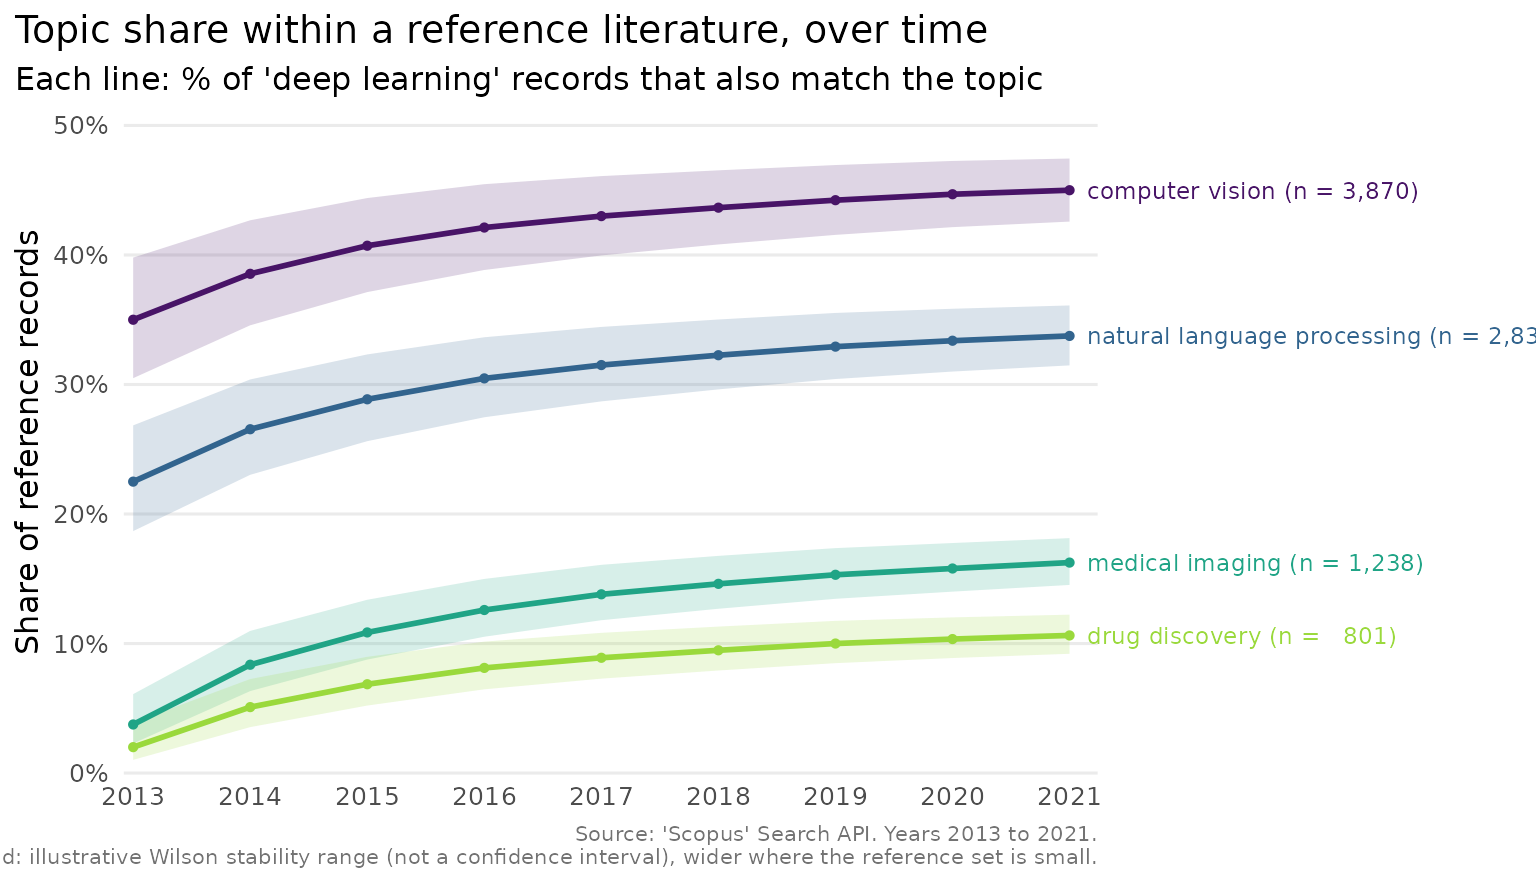
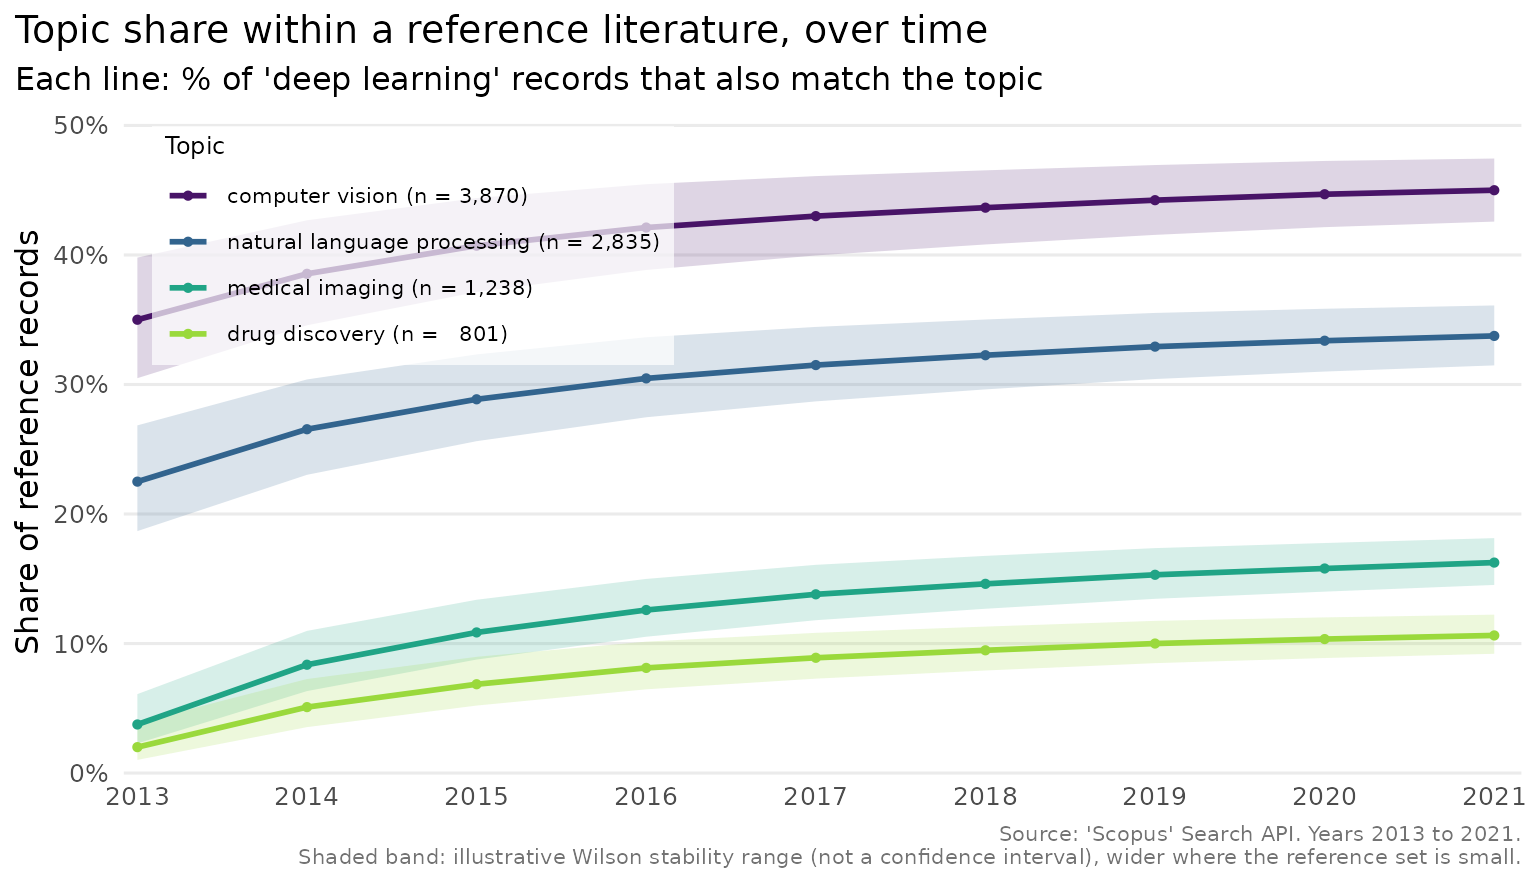
Deploying to gh-pages from @ pablobernabeu/scopusflow@1c958efbfbfdf7ba396225f3495b69d7d9747203 🚀

diff --git a/articles/comparing-topics.html b/articles/comparing-topics.html
@@ -636,16 +636,19 @@ recorded as <code>NA</code> rather than as a misleading zero.</p>
 <h2 id="a-first-plot">A first plot<a class="anchor" aria-label="anchor" href="#a-first-plot"></a>
 </h2>
 <div class="sourceCode" id="cb4"><pre class="downlit sourceCode r">
-<code class="sourceCode R"><span><span class="fu"><a href="../reference/plot_scopus_comparison.html">plot_scopus_comparison</a></span><span class="op">(</span><span class="va">cmp</span><span class="op">)</span></span></code></pre></div>
-<p><img src="comparing-topics_files/figure-html/unnamed-chunk-4-1.png" class="r-plt" alt="Four application areas' share of the deep-learning literature from 2013 to 2021, with shaded uncertainty bands" width="768"></p>
-<p>The chart uses whole-number year breaks, a colour-blind-safe palette
-and, because there are only a few topics, labels the lines directly so
-the reader need not match colours to a legend. Each label carries the
-topic’s total record count. The shaded band around each line is a Wilson
-stability range: it is wide in the early years, when the reference set
-is small and the share would move easily, and narrows as the literature
-grows. Because ‘Scopus’ returns exact counts rather than a sample, the
-band is illustrative rather than a confidence interval, a point the
+<code class="sourceCode R"><span><span class="fu"><a href="../reference/plot_scopus_comparison.html">plot_scopus_comparison</a></span><span class="op">(</span><span class="va">cmp</span>, legend_inside <span class="op">=</span> <span class="cn">TRUE</span><span class="op">)</span></span></code></pre></div>
+<p><img src="comparing-topics_files/figure-html/unnamed-chunk-4-1.png" class="r-plt" alt="Four application areas' share of the deep-learning literature from 2013 to 2021, with shaded uncertainty bands and an in-panel legend" width="768"></p>
+<p>Here <code>legend_inside = TRUE</code> places the topic key inside
+the panel, in whichever corner has the most free space, rather than
+labelling each line at its end. Left at its default the chart uses
+whole-number year breaks, a colour-blind-safe palette and, because there
+are only a few topics, labels the lines directly so the reader need not
+match colours to a legend. Each label carries the topic’s total record
+count. The shaded band around each line is a Wilson stability range: it
+is wide in the early years, when the reference set is small and the
+share would move easily, and narrows as the literature grows. Because
+‘Scopus’ returns exact counts rather than a sample, the band is
+illustrative rather than a confidence interval, a point the
 <code><a href="../reference/plot_scopus_comparison.html">plot_scopus_comparison()</a></code> help page sets out.</p>
 </div>
 <div class="section level2">

diff --git a/reference/plot_scopus_comparison.html b/reference/plot_scopus_comparison.html
@@ -75,6 +75,7 @@ Shaded bands convey how stable each yearly share is.</p>
 <span>  pub_count_in_legend <span class="op">=</span> <span class="cn">TRUE</span>,</span>
 <span>  highlight <span class="op">=</span> <span class="cn">NULL</span>,</span>
 <span>  interval <span class="op">=</span> <span class="cn">TRUE</span>,</span>
+<span>  legend_inside <span class="op">=</span> <span class="cn">FALSE</span>,</span>
 <span>  <span class="va">...</span></span>
 <span><span class="op">)</span></span>
 <span></span>
@@ -105,6 +106,16 @@ grey, which is useful when one topic is the focus of a figure.</p></dd>
 <dd><p>Logical. When <code>TRUE</code> (the default), a shaded band around each
 line shows a Wilson interval on the yearly share. See <em>Details</em> for how to
 read it.</p></dd>
+
+
+<dt id="arg-legend-inside">legend_inside<a class="anchor" aria-label="anchor" href="#arg-legend-inside"></a></dt>
+<dd><p>Logical. When <code>TRUE</code>, and a legend is drawn (that is,
+when <code>highlight</code> is not set), the legend is placed inside the plotting
+panel, in whichever corner has the most free space, on a small
+semi-transparent background, rather than above the panel. Direct line
+labelling is suppressed so the in-panel legend carries the topic key.
+Defaults to <code>FALSE</code>, which keeps the legend above the panel, or the direct
+line labels a few topics would otherwise receive.</p></dd>
 
 
 <dt id="arg--">...<a class="anchor" aria-label="anchor" href="#arg--"></a></dt>
@@ -154,6 +165,8 @@ indexing lag or coverage, which are the larger real uncertainties.</p>
 <span class="r-plt img"><img src="plot_scopus_comparison-1.png" alt="" width="700" height="433"></span>
 <span class="r-in"><span><span class="fu">plot_scopus_comparison</span><span class="op">(</span><span class="va">cmp</span>, highlight <span class="op">=</span> <span class="st">"drug discovery"</span><span class="op">)</span></span></span>
 <span class="r-plt img"><img src="plot_scopus_comparison-2.png" alt="" width="700" height="433"></span>
+<span class="r-in"><span><span class="fu">plot_scopus_comparison</span><span class="op">(</span><span class="va">cmp</span>, legend_inside <span class="op">=</span> <span class="cn">TRUE</span><span class="op">)</span></span></span>
+<span class="r-plt img"><img src="plot_scopus_comparison-3.png" alt="" width="700" height="433"></span>
 </code></pre></div>
     </div>
   </main><aside class="col-md-3"><nav id="toc" aria-label="Table of contents"><h2>On this page</h2>

diff --git a/news/index.html b/news/index.html
@@ -56,6 +56,7 @@
 <p>This release adds a code-free app and reference-manager export.</p>
 <ul><li>[<code><a href="../reference/run_app.html">run_app()</a></code>] launches a local, code-free Shiny app for building a search, retrieving records with a live progress terminal, and exporting them. A panel mirrors every choice as a runnable R script, so the app is an on-ramp to the package. It runs on your own machine, so the API key never leaves it. The app also has a <em>Compare topics</em> tab (with highlight, stability-band and counts-in-label controls, a per-term progress indicator, a quota estimate and a CSV export) and a <em>Demo mode</em>, on by default, that synthesises records and a comparison so the whole workflow can be explored with no key and no network. A new vignette, <em>Using the code-free app</em>, walks through every panel.</li>
 <li>[<code><a href="../reference/as_bibtex.html">as_bibtex()</a></code>] and [<code><a href="../reference/as_bibtex.html">as_ris()</a></code>] export a record set to the BibTeX and RIS interchange formats, so a search can be carried into Zotero, EndNote, Mendeley or a LaTeX bibliography.</li>
+<li>[<code><a href="../reference/plot_scopus_comparison.html">plot_scopus_comparison()</a></code>] gains <code>legend_inside</code>. When set, and a legend is drawn, it is placed inside the panel in whichever corner has the most free space, on a small semi-transparent background, rather than above the panel. The default keeps the previous behaviour.</li>
 <li>[<code><a href="../reference/plot_scopus_comparison.html">plot_scopus_comparison()</a></code>] now spreads the direct line labels vertically so topics that converge near the final year no longer overlap, and falls back to a legend when there are too many topics to label legibly. The labels are spread when the figure is drawn, against the rendered text height, so they stay legible at any figure size, including a short panel such as the app’s result card. They carry no leader lines: the labels are colour-matched to their lines and spread in the same order as the line ends, so the link is clear without a leader that would otherwise cut across neighbouring labels.</li>
 <li>The app is steadier under stress. It refuses to start a comparison while a harvest is running, surfaces any comparison failure as a notification rather than a crash, floors a fractional maximum-records entry, drops duplicate comparison terms, and tells you when there is nothing to cancel.</li>
 <li>[<code><a href="../reference/scopus_fetch.html">scopus_fetch()</a></code>] and [<code><a href="../reference/scopus_fetch_plan.html">scopus_fetch_plan()</a></code>] add an <code>authkeywords</code> column when <code>view = "COMPLETE"</code> is requested, at no cost beyond that view’s own smaller page size; <code>view = "STANDARD"</code> output is unchanged. [<code><a href="../reference/scopus_abstract.html">scopus_abstract()</a></code>] gains <code>view</code> and <code>include = c("references", "keywords")</code>, retrieving a document’s own reference list (as a structured, per-citation data frame, not a joined string) and author keywords via Abstract Retrieval, with per-identifier caching, a <code>n_requests</code>/<code>quota</code> attribute, and a clear, actionable error on an entitlement 403 that stops the batch rather than repeating the same failure for every identifier. A new [<code><a href="../reference/scopus_corpus.html">scopus_corpus()</a></code>] combines a search result with this step into a minimal <code>id</code>/<code>title</code>/<code>year</code>/<code>keywords</code>/<code>references</code> shape for downstream tools such as keyword co-occurrence or citation-network analysis, without replacing [<code><a href="../reference/as_bibliometrix.html">as_bibliometrix()</a></code>]. A new vignette, <em>Author keywords and references</em>, walks through all of this with real DOIs.</li>

diff --git a/articles/comparing-topics.md b/articles/comparing-topics.md
@@ -130,21 +130,24 @@ rather than as a misleading zero.
 
 ``` r
 
-plot_scopus_comparison(cmp)
+plot_scopus_comparison(cmp, legend_inside = TRUE)
 ```
 
 ![Four application areas' share of the deep-learning literature from
-2013 to 2021, with shaded uncertainty
-bands](comparing-topics_files/figure-html/unnamed-chunk-4-1.png)
+2013 to 2021, with shaded uncertainty bands and an in-panel
+legend](comparing-topics_files/figure-html/unnamed-chunk-4-1.png)
 
-The chart uses whole-number year breaks, a colour-blind-safe palette
-and, because there are only a few topics, labels the lines directly so
-the reader need not match colours to a legend. Each label carries the
-topic’s total record count. The shaded band around each line is a Wilson
-stability range: it is wide in the early years, when the reference set
-is small and the share would move easily, and narrows as the literature
-grows. Because ‘Scopus’ returns exact counts rather than a sample, the
-band is illustrative rather than a confidence interval, a point the
+Here `legend_inside = TRUE` places the topic key inside the panel, in
+whichever corner has the most free space, rather than labelling each
+line at its end. Left at its default the chart uses whole-number year
+breaks, a colour-blind-safe palette and, because there are only a few
+topics, labels the lines directly so the reader need not match colours
+to a legend. Each label carries the topic’s total record count. The
+shaded band around each line is a Wilson stability range: it is wide in
+the early years, when the reference set is small and the share would
+move easily, and narrows as the literature grows. Because ‘Scopus’
+returns exact counts rather than a sample, the band is illustrative
+rather than a confidence interval, a point the
 [`plot_scopus_comparison()`](https://pablobernabeu.github.io/scopusflow/reference/plot_scopus_comparison.md)
 help page sets out.
 

diff --git a/reference/plot_scopus_comparison.md b/reference/plot_scopus_comparison.md
@@ -15,6 +15,7 @@ plot_scopus_comparison(
   pub_count_in_legend = TRUE,
   highlight = NULL,
   interval = TRUE,
+  legend_inside = FALSE,
   ...
 )
 
@@ -45,6 +46,16 @@ autoplot(object, ...)
   Logical. When `TRUE` (the default), a shaded band around each line
   shows a Wilson interval on the yearly share. See *Details* for how to
   read it.
+
+- legend_inside:
+
+  Logical. When `TRUE`, and a legend is drawn (that is, when `highlight`
+  is not set), the legend is placed inside the plotting panel, in
+  whichever corner has the most free space, on a small semi-transparent
+  background, rather than above the panel. Direct line labelling is
+  suppressed so the in-panel legend carries the topic key. Defaults to
+  `FALSE`, which keeps the legend above the panel, or the direct line
+  labels a few topics would otherwise receive.
 
 - ...:
 
@@ -95,4 +106,6 @@ class(cmp) <- c("scopus_comparison", class(cmp))
 plot_scopus_comparison(cmp)
 
 plot_scopus_comparison(cmp, highlight = "drug discovery")
+
+plot_scopus_comparison(cmp, legend_inside = TRUE)
 ```

diff --git a/news/index.md b/news/index.md
@@ -22,6 +22,11 @@ This release adds a code-free app and reference-manager export.
   search can be carried into Zotero, EndNote, Mendeley or a LaTeX
   bibliography.
 - \[[`plot_scopus_comparison()`](https://pablobernabeu.github.io/scopusflow/reference/plot_scopus_comparison.md)\]
+  gains `legend_inside`. When set, and a legend is drawn, it is placed
+  inside the panel in whichever corner has the most free space, on a
+  small semi-transparent background, rather than above the panel. The
+  default keeps the previous behaviour.
+- \[[`plot_scopus_comparison()`](https://pablobernabeu.github.io/scopusflow/reference/plot_scopus_comparison.md)\]
   now spreads the direct line labels vertically so topics that converge
   near the final year no longer overlap, and falls back to a legend when
   there are too many topics to label legibly. The labels are spread when